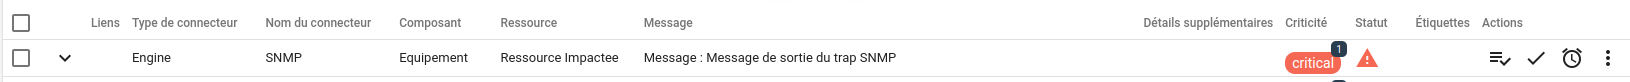
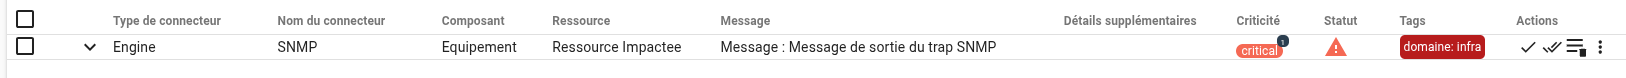
maj screenshots + tableau

diff --git a/community/sources/docs/fr/guide-utilisation/menu-exploitation/regles-snmp.md b/community/sources/docs/fr/guide-utilisation/menu-exploitation/regles-snmp.md
@@ -90,6 +90,8 @@ Cliquez sur le bouton « + » pour créer une règle de traduction SNMP :
 | **Ressource** | Variable de la MIB à utiliser en tant que "Ressource" de l'évènement qui sera généré |
 | **Nom du connecteur** | Variable de la MIB à utiliser en tant que "Nom du connecteur" de l'évènement qui sera généré |
 | **State** | Criticité de l'évènement qui sera généré |
+| **Tags** | Variable de la MIB à utiliser pour ajouter des tags à l'évènement qui sera généré |
+| **Champs personnalisés** | Variables de la MIB à utiliser pour ajouter des informations personnalisées à l'évènement qui sera généré |
 
 Chaque paramètre de l'évènement final est représenté par un _template_. Cela signifie que vous pouvez utiliser des variables de la MIB mais également du texte statique, ou une combinaison de ces éléments.  
 Par exemple, le message de l'évènement pourrait être de la forme : `Message : {{ variable_mib }}`
@@ -136,7 +138,7 @@ Voici un exemple complet basé sur les [MIBs Nagios](https://github.com/nagios-p
 **Étape 3 : envoi d'un événement test**
 
 ```sh
-/usr/bin/snmptrap -v 2c -c public localhost '' NAGIOS-NOTIFY-MIB::nSvcEvent   nHostname s "Equipement" nSvcDesc s "Ressource Impactee"   nSvcStateID i 3 nSvcOutput s "Warning : Message de sortie du trap SNMP"
+/usr/bin/snmptrap -v 2c -c public localhost '' NAGIOS-NOTIFY-MIB::nSvcEvent   nHostname s "Equipement" nSvcDesc s "Ressource Impactee"   nSvcStateID i 3 nSvcOutput s "Warning : Message de sortie du trap SNMP" nSvcGroupName s "domaine:infra"
 ```
 
 L'alarme suivante est à présent visible dans le bac à alarmes :
